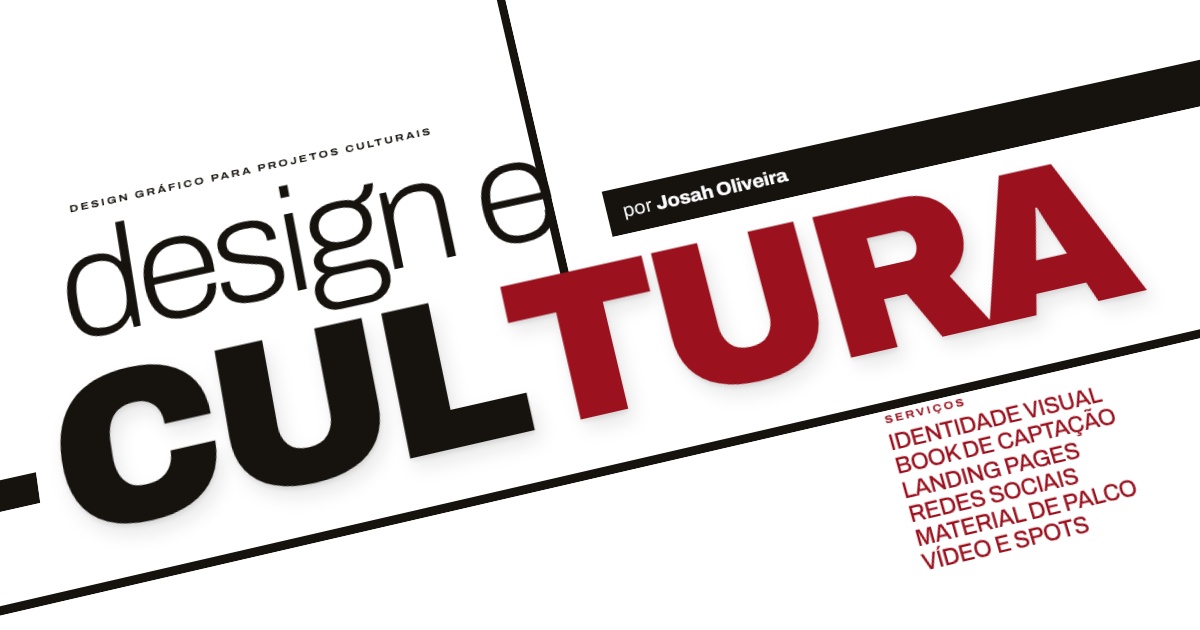
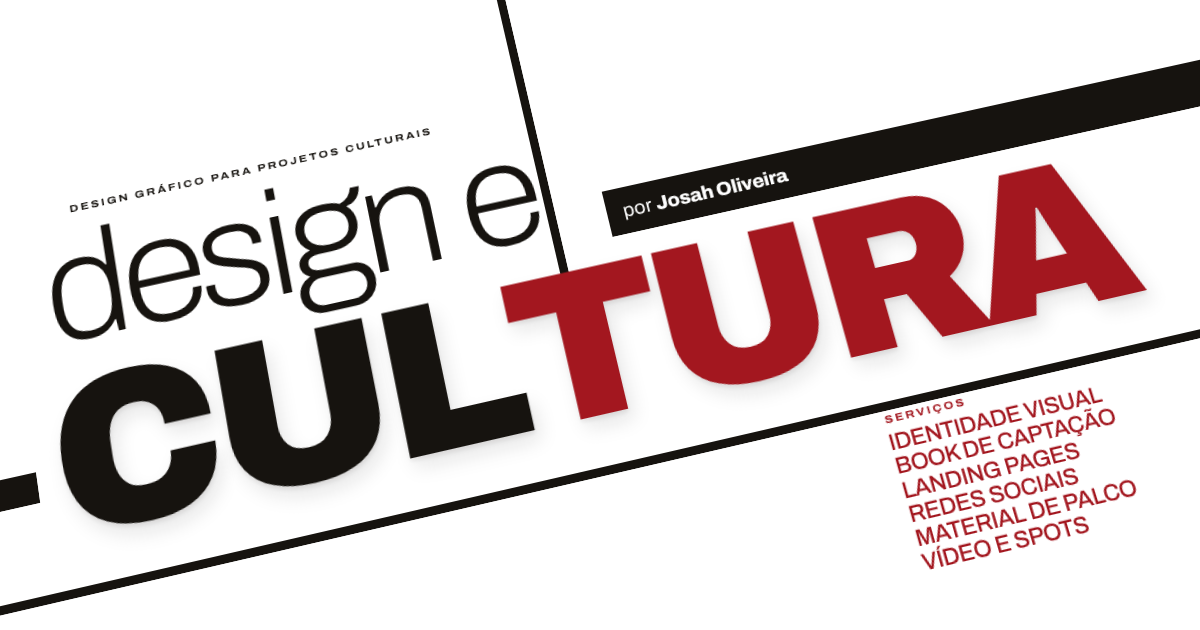
Vermelho #A3171F, vitrines nos serviços e processo com seis etapas
- Cor de destaque #A3171F
- Serviços: três trabalhos sobrepostos em cada painel (data-trabalhos)
- Processo: etapa Aprovação (pares equilibrados) e bloco vermelho em 'à entrega'
- Hero: frase objetiva sobre o trabalho; .hero__design left 20.7%
- Contato com a foto recortada no lugar do low-poly
- .visor__corpo gap clamp(28px, 2vw, 88px)

Claude-Session: https://claude.ai/code/session_01RLZUj9rjpzXsmc93EoFHZf

Changed region(s): [[0.0308, 0.2413, 0.4625, 0.5429]]

diff --git a/index.html b/index.html
@@ -305,7 +305,7 @@
 
           <p class="hero__rotulo-servicos" aria-hidden="true">Serviços</p>
           <p class="hero__texto">
-            Identidade visual, peças gráficas, páginas e vídeos para quem quer ser visto, entendido e lembrado.
+            Transformo a proposta do seu projeto em uma linguagem visual clara, do edital ao palco.
           </p>
           <a class="hero__botao" href="#projetos">
             Ver trabalhos
@@ -383,6 +383,11 @@
               <p class="servicos__painel-descricao">
                 Propostas visuais para editais, pareceristas, leis de incentivo e patrocinadores.
               </p>
+              <div
+                class="servicos__vitrine"
+                data-trabalhos="Amazônia Motirô|Caminho do Bem|Nanda Sabores e Afetos"
+                aria-hidden="true"
+              ></div>
             </div>
             <dl class="servicos__lista">
               <div class="servicos__item">
@@ -413,6 +418,11 @@
               <p class="servicos__painel-descricao">
                 Comunicação online, fluxo de inscrições e relacionamento com o público do evento.
               </p>
+              <div
+                class="servicos__vitrine"
+                data-trabalhos="Tabuleiro Produções|Trombone Criativo|Duda Filmes"
+                aria-hidden="true"
+              ></div>
             </div>
             <dl class="servicos__lista">
               <div class="servicos__item">
@@ -442,6 +452,11 @@
               <p class="servicos__painel-descricao">
                 Artes digitais para espaços de eventos, palco e canais de difusão do seu projeto.
               </p>
+              <div
+                class="servicos__vitrine"
+                data-trabalhos="ACUBA - Edição|Antropofagia Mapping|Forró Zevixe"
+                aria-hidden="true"
+              ></div>
             </div>
             <dl class="servicos__lista">
               <div class="servicos__item">
@@ -1285,6 +1300,12 @@
               </p>
             </div>
             <div class="processo__etapa">
+              <h3 class="processo__etapa-nome"><span class="processo__etapa-miolo">Aprovação</span></h3>
+              <p class="processo__etapa-texto">
+                Você aprova as peças finais e o saldo é pago conforme o combinado na proposta.
+              </p>
+            </div>
+            <div class="processo__etapa">
               <h3 class="processo__etapa-nome"><span class="processo__etapa-miolo">Entrega</span></h3>
               <p class="processo__etapa-texto">
                 Arquivos finais em alta resolução, nos formatos necessários, liberados após a compensação do pagamento.
@@ -1583,8 +1604,8 @@
             <span class="contato__ima-circulo" aria-hidden="true"></span>
             <span class="contato__ima-janela" aria-hidden="true">
               <img
-                class="contato__personagem-corpo"
-                src="/assets/imagens/personagem-lowpoly.webp"
+                class="contato__retrato-corpo"
+                src="/assets/imagens/retrato-contato.webp"
                 alt=""
                 width="640"
                 height="621"
@@ -1592,8 +1613,8 @@
               />
             </span>
             <img
-              class="contato__personagem-cabeca"
-              src="/assets/imagens/personagem-lowpoly.webp"
+              class="contato__retrato-cabeca"
+              src="/assets/imagens/retrato-contato.webp"
               alt=""
               width="640"
               height="621"
@@ -2369,9 +2390,9 @@
                 d="M4 5.5A2.5 2.5 0 0 1 6.5 3h11A2.5 2.5 0 0 1 20 5.5v8a2.5 2.5 0 0 1-2.5 2.5H10l-4.2 3.6c-.5.4-1.3.1-1.3-.6V16A2.5 2.5 0 0 1 4 13.5Z"
                 fill="#ffffff"
               />
-              <circle cx="8.5" cy="9.5" r="1.3" fill="#9b111e" />
-              <circle cx="12" cy="9.5" r="1.3" fill="#9b111e" />
-              <circle cx="15.5" cy="9.5" r="1.3" fill="#9b111e" />
+              <circle cx="8.5" cy="9.5" r="1.3" fill="#a3171f" />
+              <circle cx="12" cy="9.5" r="1.3" fill="#a3171f" />
+              <circle cx="15.5" cy="9.5" r="1.3" fill="#a3171f" />
             </svg>
           </span>
           <div class="chat__identidade">

diff --git a/assets/js/secoes/Servicos.js b/assets/js/secoes/Servicos.js
@@ -1,20 +1,48 @@
 import { Ambiente } from "../nucleo/Ambiente.js";
 import { ValorSuave } from "../nucleo/CicloDeQuadros.js";
+import { aplicarImagem, miniaturaDoTrabalho } from "../../dados/trabalhos.js";
+
+/** Posição de cada imagem na vitrine: a primeira fica na frente. */
+const POSICOES = ["frente", "esquerda", "direita"];
 
 /**
  * Servicos
  * Os painéis ficam presos e se empilham; o de baixo recua de leve
- * (até 6%) enquanto o próximo sobe e o cobre.
+ * (até 6%) enquanto o próximo sobe e o cobre. Cada painel tem uma vitrine
+ * com três trabalhos sobrepostos, escolhidos pelo nome no atributo
+ * `data-trabalhos` do HTML.
  */
 export class Servicos {
   /**
    * @param {HTMLElement} raiz
    * @param {import("../nucleo/CicloDeQuadros.js").CicloDeQuadros} ciclo
+   * @param {Array<object>} trabalhos
    */
-  constructor(raiz, ciclo) {
+  constructor(raiz, ciclo, trabalhos) {
     this.paineis = Array.from(raiz.querySelectorAll(".servicos__painel"));
     this.recuos = this.paineis.map(() => new ValorSuave(0.16));
+    raiz.querySelectorAll(".servicos__vitrine").forEach((vitrine) => this.#montarVitrine(vitrine, trabalhos));
     ciclo.inscrever(() => this.#aoRolar());
+  }
+
+  #montarVitrine(vitrine, trabalhos) {
+    const nomes = (vitrine.getAttribute("data-trabalhos") || "").split("|");
+    nomes.forEach((nome, posicao) => {
+      const trabalho = trabalhos.find((item) => item.nome === nome);
+      const endereco = trabalho ? miniaturaDoTrabalho(trabalho) : "";
+      if (!endereco || !POSICOES[posicao]) return;
+      const moldura = document.createElement("span");
+      moldura.className = `servicos__vitrine-item servicos__vitrine-item--${POSICOES[posicao]}`;
+      const img = document.createElement("img");
+      img.className = "servicos__vitrine-imagem";
+      img.alt = "";
+      img.loading = "lazy";
+      img.decoding = "async";
+      img.referrerPolicy = "no-referrer";
+      aplicarImagem(img, endereco, "(max-width: 860px) 70vw, 24vw");
+      moldura.append(img);
+      vitrine.append(moldura);
+    });
   }
 
   #aoRolar() {

diff --git a/assets/css/servicos.css b/assets/css/servicos.css
@@ -112,6 +112,75 @@
   opacity: 0.78;
 }
 
+/* ---------- vitrine: três trabalhos sobrepostos ---------- */
+.servicos__vitrine {
+  position: relative;
+  max-width: 34vw;
+  height: 21vw;
+  margin-top: 3.4vw;
+}
+
+.servicos__vitrine-item {
+  position: absolute;
+  display: block;
+  overflow: hidden;
+  aspect-ratio: 4 / 3;
+  border-radius: 16px;
+  background: rgba(255, 255, 255, 0.12);
+  transition:
+    transform 1.1s var(--curva),
+    filter 0.8s ease,
+    opacity 0.8s ease;
+}
+
+.servicos__vitrine-item--esquerda {
+  left: 0;
+  top: 0;
+  width: 54%;
+  opacity: 0.6;
+  filter: blur(2px);
+}
+
+.servicos__vitrine-item--direita {
+  right: 0;
+  top: 8%;
+  width: 54%;
+  opacity: 0.6;
+  filter: blur(2px);
+}
+
+.servicos__vitrine-item--frente {
+  z-index: 2;
+  left: 17%;
+  top: 22%;
+  width: 66%;
+  box-shadow: 0 30px 60px -24px rgba(22, 19, 15, 0.55);
+}
+
+.servicos__vitrine-imagem {
+  width: 100%;
+  height: 100%;
+  object-fit: cover;
+}
+
+@media (hover: hover) and (pointer: fine) {
+  .servicos__painel:hover .servicos__vitrine-item--esquerda {
+    transform: translate(-4%, -4%) rotate(-3deg);
+    opacity: 0.85;
+    filter: blur(0);
+  }
+
+  .servicos__painel:hover .servicos__vitrine-item--direita {
+    transform: translate(4%, -4%) rotate(3deg);
+    opacity: 0.85;
+    filter: blur(0);
+  }
+
+  .servicos__painel:hover .servicos__vitrine-item--frente {
+    transform: translateY(-3%);
+  }
+}
+
 .servicos__lista {
   align-self: center;
 }
@@ -195,6 +264,12 @@
 
   .servicos__painel-nome {
     font-size: 12vw;
+  }
+
+  .servicos__vitrine {
+    max-width: none;
+    height: 62vw;
+    margin-top: 32px;
   }
 
   .servicos__item {

diff --git a/assets/css/contato.css b/assets/css/contato.css
@@ -2,7 +2,7 @@
    VAMOS APRESENTAR O SEU PROJETO PARA O MUNDO?
    Faixa vermelho em duas partes:
      topo    chamada (título e texto) à esquerda e o círculo com o
-             personagem à direita, os dois centrados na mesma altura;
+             retrato à direita, os dois centrados na mesma altura;
      canais  WhatsApp, e-mail e redes em três colunas iguais, alinhadas
              pelo topo, sob uma linha que atravessa a faixa.
    ========================================================================= */
@@ -58,7 +58,7 @@
   opacity: 0.9;
 }
 
-/* ---------- círculo magnético com o personagem ---------- */
+/* ---------- círculo magnético com o retrato ---------- */
 .contato__ima {
   position: relative;
   justify-self: center;
@@ -88,8 +88,8 @@
   transform: translateZ(0);
 }
 
-.contato__personagem-corpo,
-.contato__personagem-cabeca {
+.contato__retrato-corpo,
+.contato__retrato-cabeca {
   position: absolute;
   left: -12.5%;
   bottom: -2%;
@@ -100,7 +100,7 @@
 }
 
 /* cabeça: a mesma imagem, mostrando só a parte de cima, por fora do círculo */
-.contato__personagem-cabeca {
+.contato__retrato-cabeca {
   clip-path: inset(0 0 62% 0);
   pointer-events: none;
 }
@@ -129,8 +129,8 @@
   transform: scale(1.04);
 }
 
-.contato__ima:hover .contato__personagem-corpo,
-.contato__ima:hover .contato__personagem-cabeca {
+.contato__ima:hover .contato__retrato-corpo,
+.contato__ima:hover .contato__retrato-cabeca {
   transform: translateY(-4%);
 }
 

diff --git a/assets/dados/trabalhos.js b/assets/dados/trabalhos.js
@@ -304,6 +304,21 @@ export function aplicarImagem(img, endereco, tamanhos) {
   );
 }
 
+/**
+ * Imagem que representa o trabalho em miniatura: a capa ou, num vídeo do
+ * YouTube, a imagem de prévia do próprio vídeo.
+ */
+export function miniaturaDoTrabalho(trabalho) {
+  const capa = capaDoTrabalho(trabalho);
+  if (capa) return capa;
+  for (const midia of trabalho.midias || []) {
+    const endereco = typeof midia === "string" ? midia : midia.video || "";
+    const youtube = endereco.match(/(?:youtube\.com\/(?:watch\?v=|shorts\/|embed\/)|youtu\.be\/)([\w-]{11})/);
+    if (youtube) return `https://i.ytimg.com/vi/${youtube[1]}/hqdefault.jpg`;
+  }
+  return "";
+}
+
 /** Primeira imagem do trabalho, para a capa da grade. */
 export function capaDoTrabalho(trabalho) {
   for (const midia of trabalho.midias || []) {

diff --git a/assets/css/processo.css b/assets/css/processo.css
@@ -35,9 +35,18 @@
   letter-spacing: -0.05em;
 }
 
-/* o vermelho intenso perde leitura sobre a tinta: o destaque aqui é pelo peso */
+/* destaque em bloco vermelho atrás das palavras, que se preenche da esquerda */
 .processo__titulo-forte {
+  padding: 0 0.12em;
   font-weight: 900;
+  background: linear-gradient(var(--cor-vermelho), var(--cor-vermelho)) left center / 0% 100% no-repeat;
+  -webkit-box-decoration-break: clone;
+  box-decoration-break: clone;
+  transition: background-size 1.1s var(--curva) 0.5s;
+}
+
+.processo__titulo--visivel .processo__titulo-forte {
+  background-size: 100% 100%;
 }
 
 .processo__titulo-palavra {

diff --git a/assets/js/main.js b/assets/js/main.js
@@ -63,7 +63,7 @@ class Site {
     this.secoes.trabalhos = new Trabalhos($(".trabalhos"), TRABALHOS, (indice, lista) =>
       this.secoes.visor.abrir(indice, lista),
     );
-    this.secoes.servicos = new Servicos($(".servicos"), this.ciclo);
+    this.secoes.servicos = new Servicos($(".servicos"), this.ciclo, TRABALHOS);
     this.secoes.fomento = new Fomento($(".fomento"));
     this.secoes.processo = new Processo($(".processo"));
     this.secoes.sobre = new Sobre($(".sobre"));

diff --git a/assets/css/hero.css b/assets/css/hero.css
@@ -137,7 +137,7 @@
 /* título: fino, apoiado na palavra */
 .hero__design {
   position: absolute;
-  left: 21.5%;
+  left: 20.7%;
   top: 31.5%;
   margin: 0;
   transform: translateZ(50px);
@@ -243,7 +243,7 @@
 }
 
 .hero__servicos:hover .hero__servico {
-  color: rgba(155, 17, 30, 0.55);
+  color: rgba(163, 23, 31, 0.55);
 }
 
 .hero__servicos:hover .hero__servico:hover {

diff --git a/assets/js/secoes/Contato.js b/assets/js/secoes/Contato.js
@@ -2,7 +2,7 @@ import { Ambiente } from "../nucleo/Ambiente.js";
 
 /**
  * Contato
- * O círculo com o personagem é atraído pelo cursor quando ele chega perto
+ * O círculo com o retrato é atraído pelo cursor quando ele chega perto
  * (efeito ímã) e volta ao lugar quando o cursor sai da faixa.
  */
 export class Contato {

diff --git a/assets/css/base.css b/assets/css/base.css
@@ -17,7 +17,7 @@
   /* paleta: branco, tinta e vermelho (três cores) */
   --cor-fundo: #ffffff;
   --cor-tinta: #16130f;
-  --cor-vermelho: #9b111e;
+  --cor-vermelho: #a3171f;
 
   /* variações de opacidade da tinta (não são cores novas) */
   --cor-tinta-suave: rgba(22, 19, 15, 0.62);

diff --git a/assets/css/visor.css b/assets/css/visor.css
@@ -110,7 +110,7 @@
 .visor__corpo {
   display: grid;
   grid-template-columns: minmax(0, 4fr) minmax(0, 8fr);
-  gap: clamp(28px, 5vw, 88px);
+  gap: clamp(28px, 2vw, 88px);
   padding: clamp(36px, 5vw, 76px) var(--margem) clamp(64px, 8vw, 120px);
 }
 
